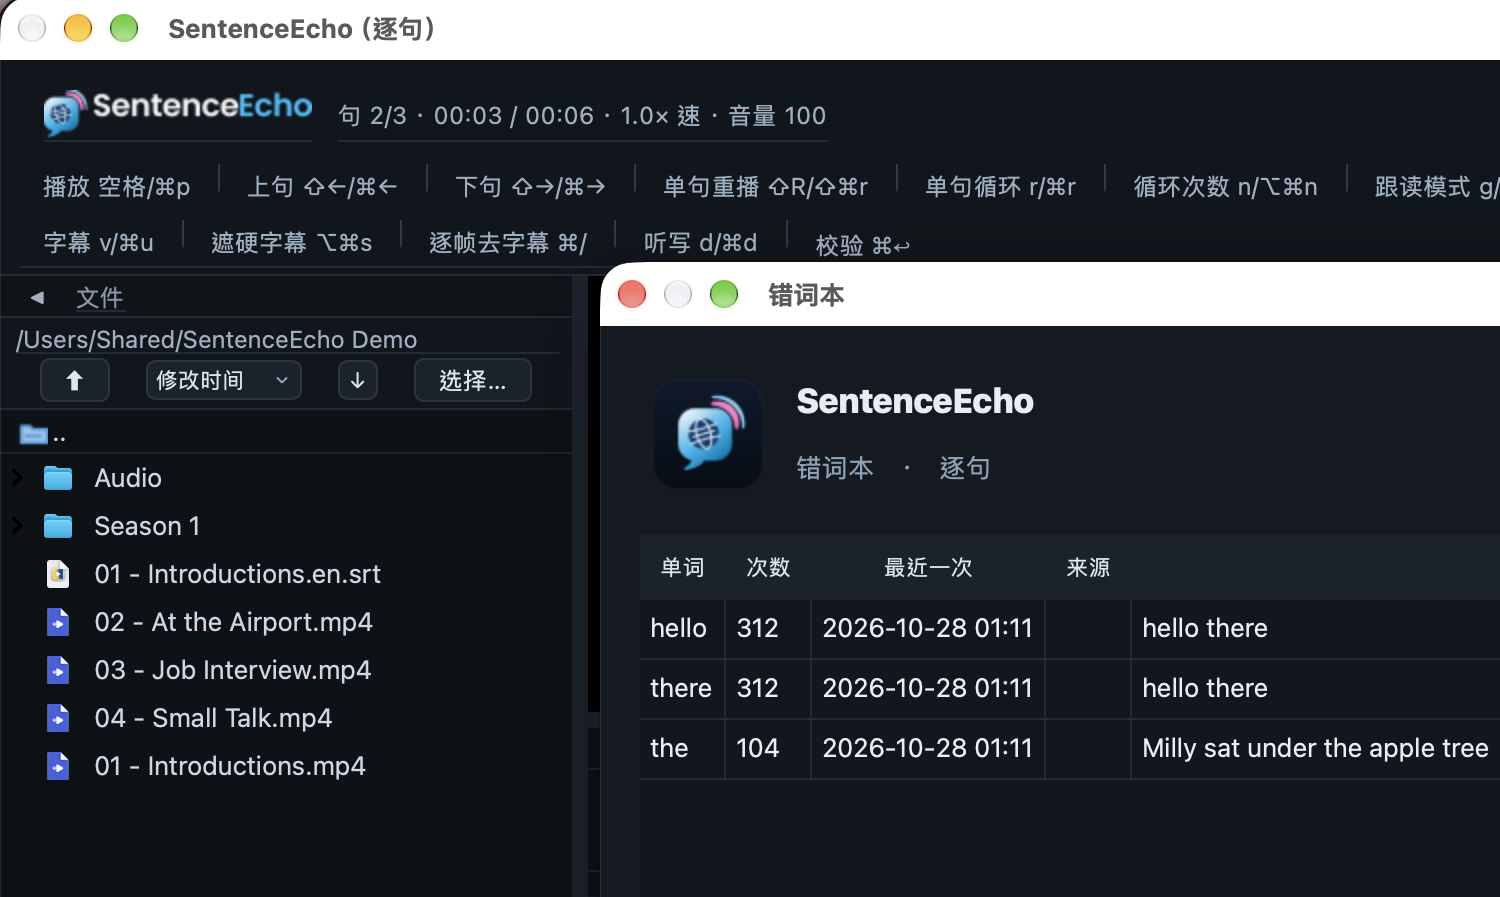
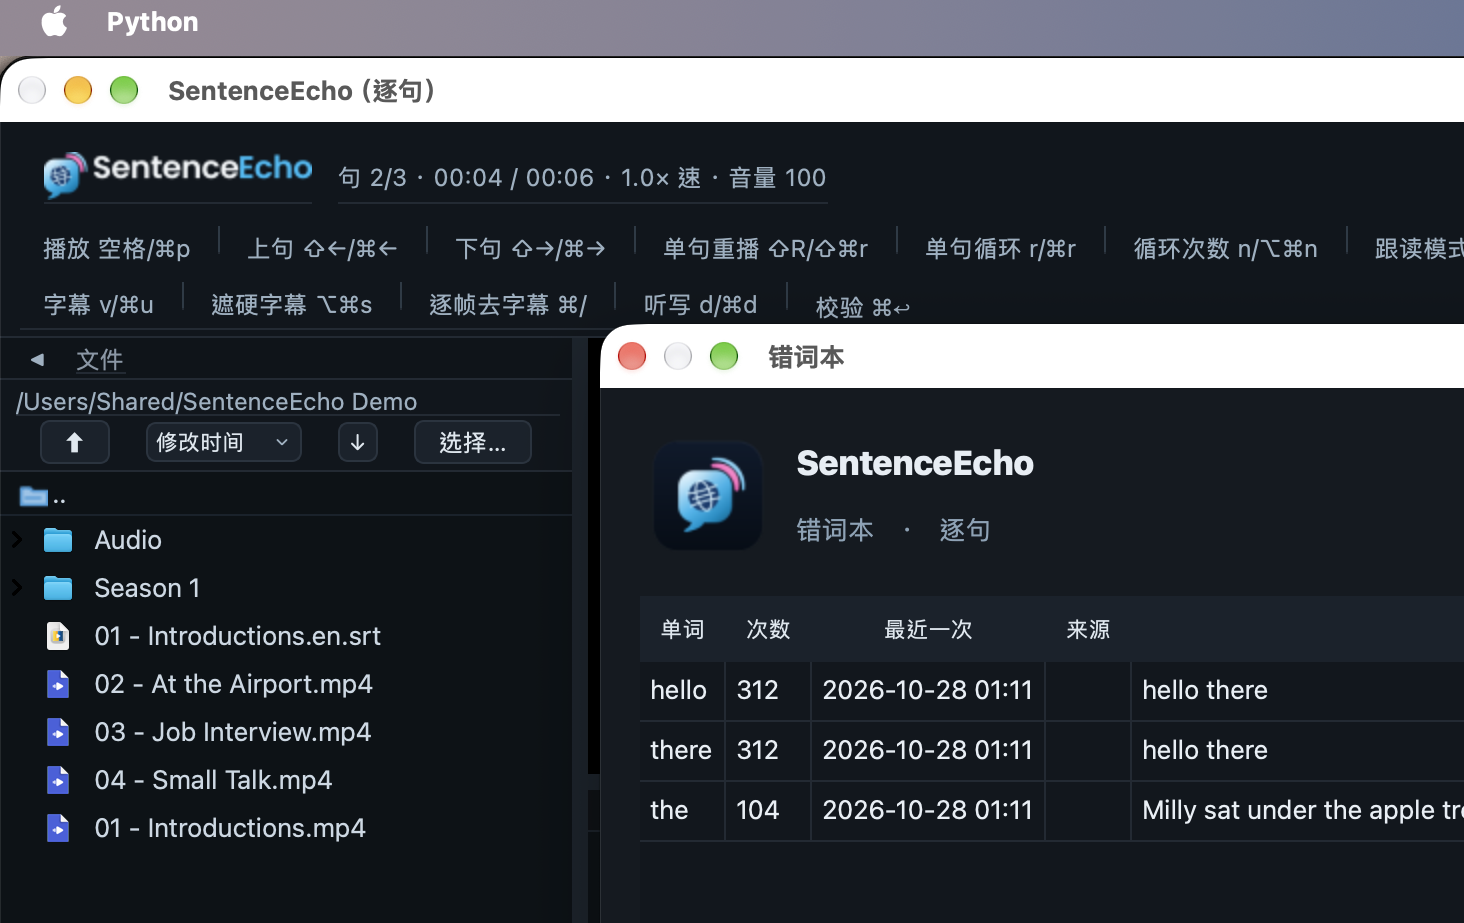
site: neutral wording for open-source recognition model

diff --git a/app.js b/app.js
@@ -168,7 +168,7 @@
       spot_h: "没有字幕，也能直接开始",
       spot_sub: "英文素材没有 .srt？不用到处找字幕。本地识别先把声音切成句子，转完就进复读与听写。",
       spot1_t: "本地出字幕",
-      spot1_p: "没有字幕轨时，本地 whisper.cpp 自动识别成句，不用再去下载 .srt。",
+      spot1_p: "没有字幕轨时，本地开源 whisper 模型自动识别成句，不用再去下载 .srt。",
       spot2_t: "转完即听写",
       spot2_p: "生成的句子表直接可用：按句循环、按句跳、逐句校验，不需要二次导入。",
       spot3_t: "再开秒出",
@@ -496,7 +496,7 @@
       spot_h: "No subtitles? Start anyway",
       spot_sub: "No .srt for an English clip? Stop hunting for one. Local recognition turns the audio into sentences, then hands them straight to repeat and dictation.",
       spot1_t: "Subtitles made locally",
-      spot1_p: "When there is no subtitle track, local whisper.cpp transcribes the audio into sentences. No more downloading .srt files.",
+      spot1_p: "When there is no subtitle track, a local open-source whisper model transcribes the audio into sentences. No more downloading .srt files.",
       spot2_t: "Ready for dictation immediately",
       spot2_p: "The generated sentence list is usable at once: loop by sentence, jump by sentence, check sentence by sentence — no second import.",
       spot3_t: "Instant on reopen",

diff --git a/index.html b/index.html
@@ -396,7 +396,7 @@
         <ul class="spot-list">
           <li>
             <h3 data-i18n="spot1_t">本地出字幕</h3>
-            <p data-i18n="spot1_p">没有字幕轨时，本地 whisper.cpp 自动识别成句，不用再去下载 .srt。</p>
+            <p data-i18n="spot1_p">没有字幕轨时，本地开源 whisper 模型自动识别成句，不用再去下载 .srt。</p>
           </li>
           <li>
             <h3 data-i18n="spot2_t">转完即听写</h3>
